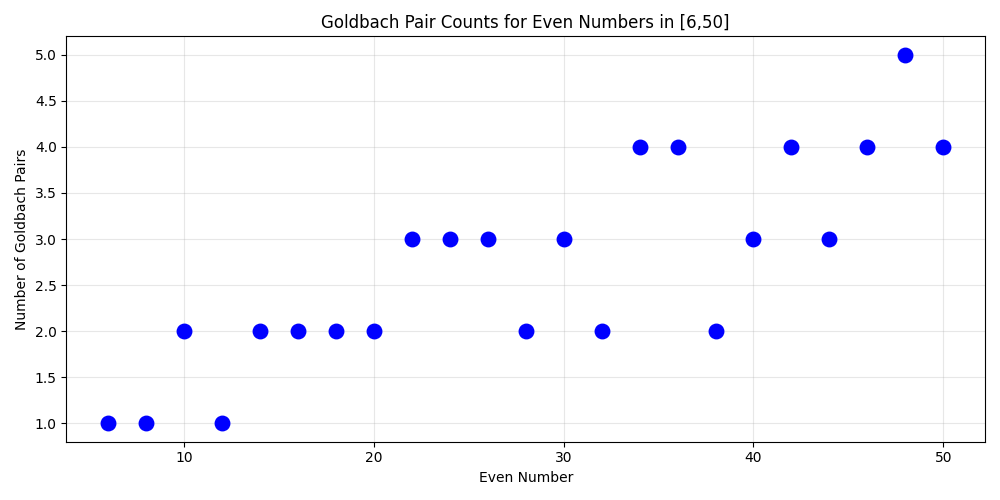
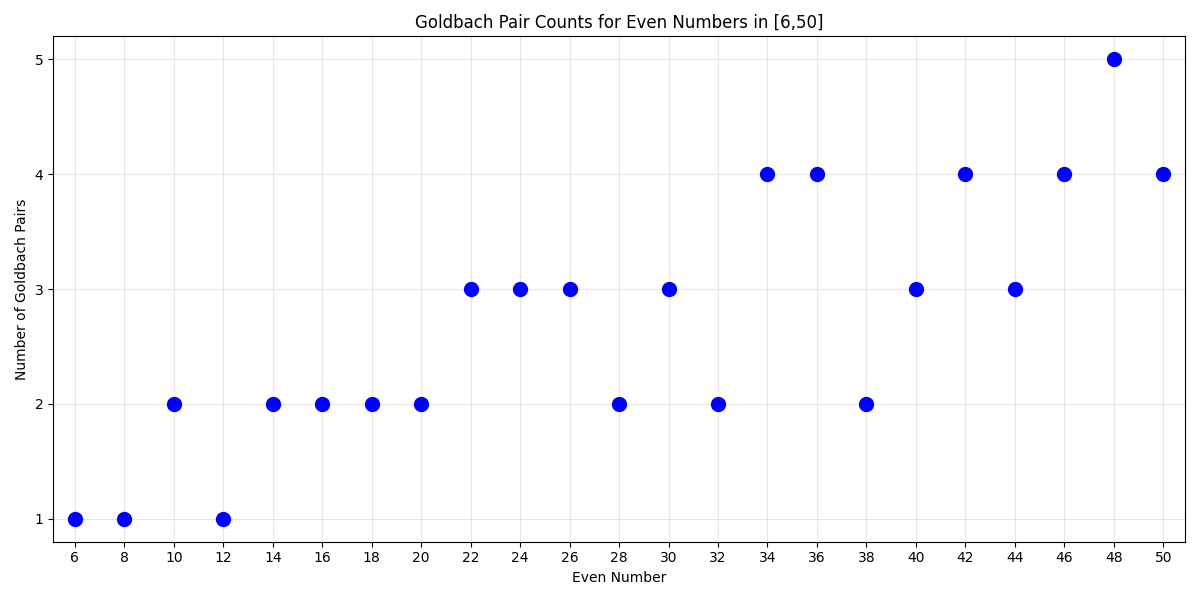
plot improvements

diff --git a/goldbach/plots/goldbach_pair_count.py b/goldbach/plots/goldbach_pair_count.py
@@ -4,6 +4,7 @@ Plot the number of Goldbach pairs for each even number.
 
 from .base import GoldbachPlotBase
 import matplotlib.pyplot as plt
+import matplotlib.ticker as mticker
 
 
 class PlotGoldbachPairCounts(GoldbachPlotBase):
@@ -15,7 +16,7 @@ class PlotGoldbachPairCounts(GoldbachPlotBase):
         evens = list(range(start, end + 1, 2))
         counts = [len(goldbach_pairs.goldbach_pairs(n)) for n in evens]
         marker_size = GoldbachPlotBase.get_marker_size(len(evens))
-        plt.figure(figsize=(10, 5))
+        plt.figure(figsize=(12, 6))
         plt.plot(
             evens,
             counts,
@@ -28,6 +29,19 @@ class PlotGoldbachPairCounts(GoldbachPlotBase):
         plt.ylabel("Number of Goldbach Pairs")
         plt.title(f"Goldbach Pair Counts for Even Numbers in [{start},{end}]")
         plt.grid(True, alpha=0.3)
+        # Add a larger margin to the x-axis, but only label ticks for actual evens in the range
+        margin = (max(evens) - min(evens)) * 0.02
+        left = min(evens) - margin
+        right = max(evens) + margin
+        plt.xlim(left, right)
+        ax = plt.gca()
+        ax.xaxis.set_major_locator(mticker.MultipleLocator(2))
+        ax.xaxis.set_minor_locator(mticker.NullLocator())
+        # Only label ticks for evens in the range, not for the margin
+        ticks = [e for e in evens if left < e < right]
+        ax.set_xticks(ticks)
+        ax.set_xticklabels([str(e) for e in ticks], rotation=0)
+        ax.yaxis.set_major_locator(mticker.MaxNLocator(integer=True))
         plt.tight_layout()
         if output:
             plt.savefig(output)

diff --git a/goldbach/plots/goldbach_pair_prime_gaps.py b/goldbach/plots/goldbach_pair_prime_gaps.py
@@ -4,6 +4,7 @@ Plot prime gaps for Goldbach pairs.
 
 from .base import GoldbachPlotBase
 import matplotlib.pyplot as plt
+import matplotlib.ticker as mticker
 
 
 class PlotGoldbachPrimeGaps(GoldbachPlotBase):
@@ -20,14 +21,22 @@ class PlotGoldbachPrimeGaps(GoldbachPlotBase):
             for gap in goldbach_pairs.prime_gaps(even_n):
                 xs.append(even_n)
                 ys.append(gap)
-        n_points = len(xs)
-        marker_size = GoldbachPlotBase.get_marker_size(n_points)
+        evens = list(range(start, end + 1, 2))
+        marker_size = GoldbachPlotBase.get_marker_size(len(evens))
+
         plt.figure(figsize=(12, 6))
-        plt.scatter(xs, ys, s=marker_size, alpha=0.6, color="blue")
+        plt.scatter(xs, ys, s=marker_size**2, alpha=0.6, color="blue")
         plt.xlabel("Even Number")
         plt.ylabel("Prime Gap (q - p)")
         plt.title(f"Prime Gaps in Goldbach Pairs for Even Numbers in [{start},{end}]")
         plt.grid(True, alpha=0.3)
+        # Add a larger margin to the x-axis, but only label ticks for actual evens
+        margin = (max(evens) - min(evens)) * 0.02
+        plt.xlim(min(evens) - margin, max(evens) + margin)
+        ax = plt.gca()
+        ax.xaxis.set_major_locator(mticker.FixedLocator(evens))
+        ax.xaxis.set_minor_locator(mticker.NullLocator())
+        ax.set_xticklabels([str(e) for e in evens], rotation=0)
         plt.tight_layout()
         if output:
             plt.savefig(output)

diff --git a/goldbach/plots/base.py b/goldbach/plots/base.py
@@ -15,4 +15,4 @@ class GoldbachPlotBase:
         max_size = 50
         min_size = 1
         size = max_size / np.sqrt(max(n_points, 1))
-        return max(min_size, size)
+        return int(round(max(min_size, size)))
